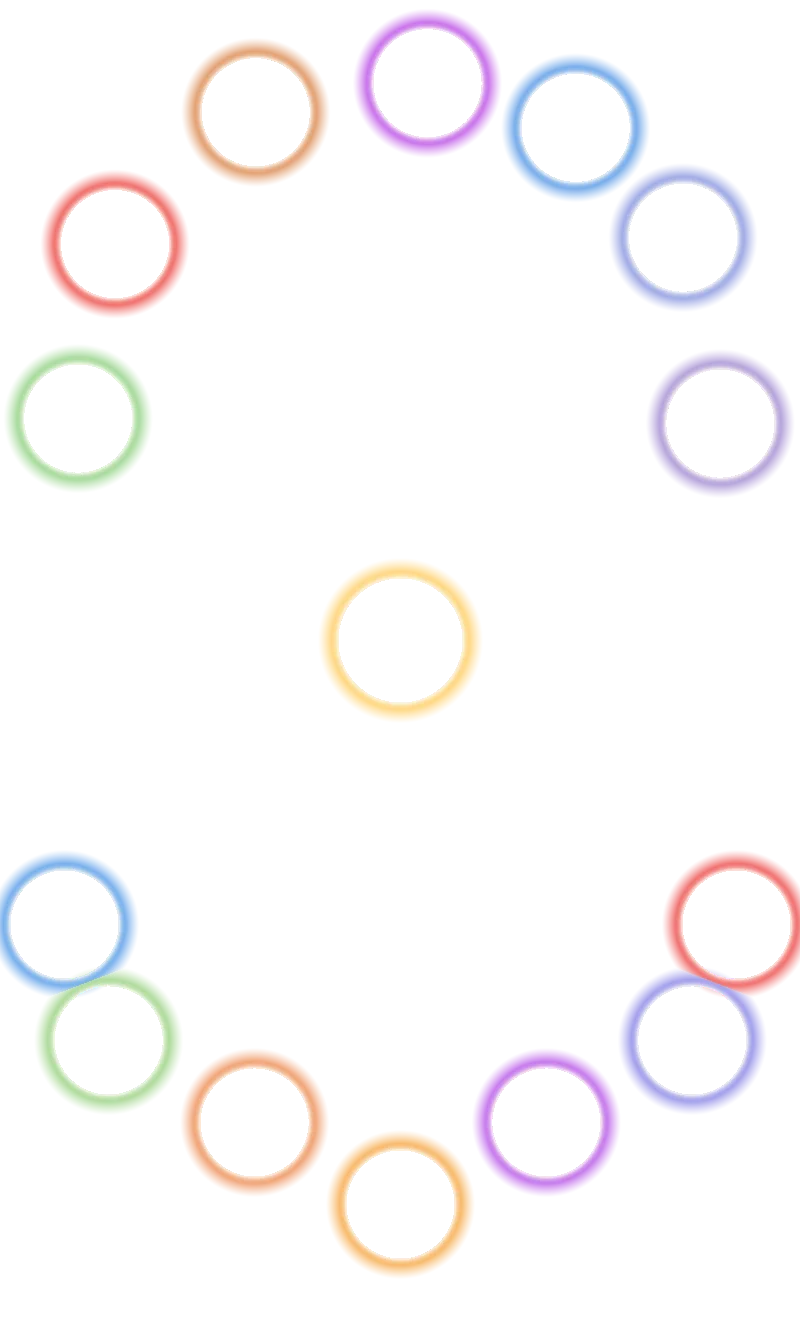
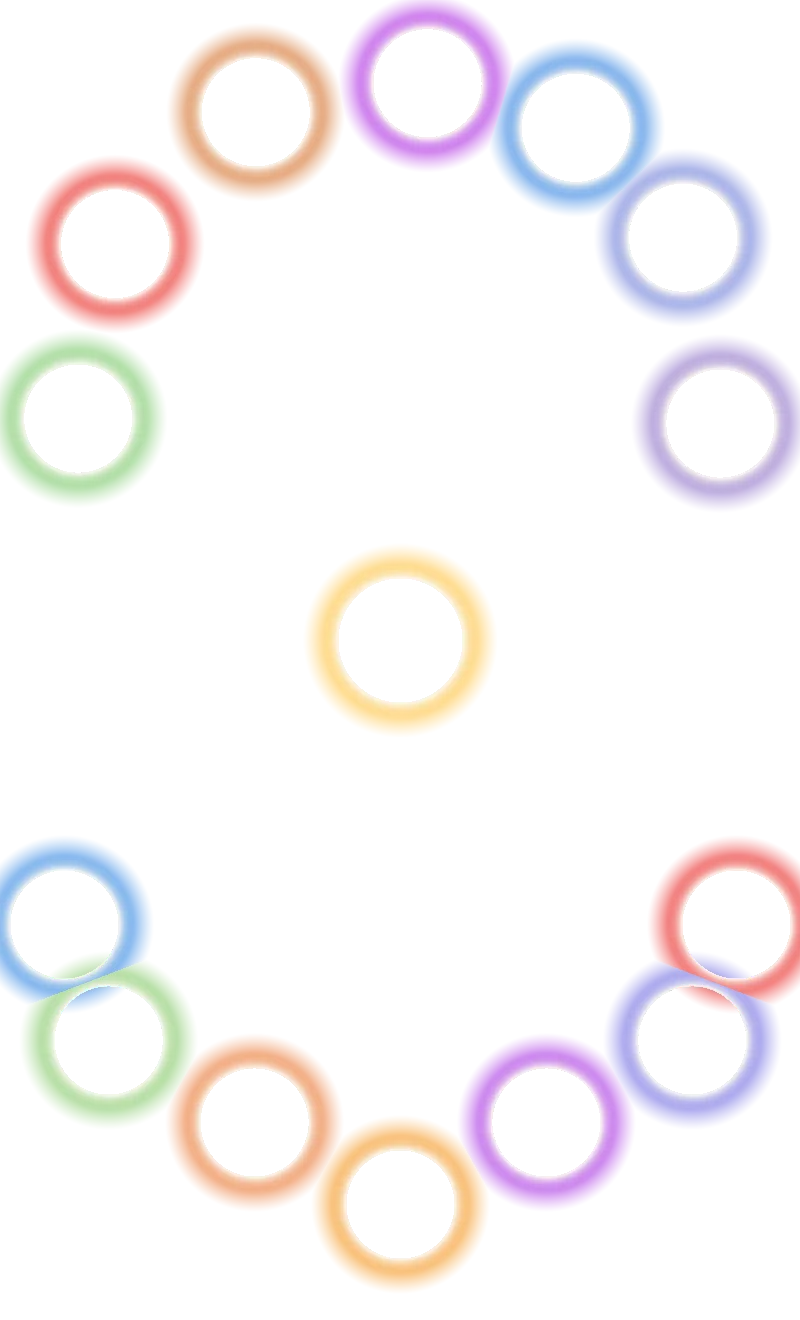
Living Sky refinements: glow C rebake, sumi C brush x4 tree, rAF-driven glow pulse
Founder picks from the 2026-11-17 refinement study (glow C + sumi C,
brush 4x as thick; ship decision 2026-11-17):

- Glow layers rebaked at variant C constants (reach 30px, peak alpha
  255, white mix .95, white zone 0.44 + 0.54*push, white layer 1.0)
  via the production bake path (composite-stack-v6 glow_layer);
  combined halo alpha mass 25.6M -> 50.3M, changes confined to the
  medallion halo bands.
- tree-painted rebaked with the sumi C dry-brush outline treatment
  on a 20 layer-px band grown outward (brush x4): 0 colour pixels
  changed, 0 changes inside the medallion disc zones, all changes
  inside the band+bleed footprint (bake-time post-process, zero
  runtime cost).
- Glow pulse moved off CSS keyframes onto the scene's existing rAF
  loop: iOS drops the CSS animation on pinch-zoom and never restarts
  it (founder report 2026-11-17). Same pulse law — 1.65s period,
  ease-in-out (cubic-bezier(0.42, 0, 0.58, 1)), opacity .10 <-> 1 —
  now set per frame via a ref on the glow-white layer.

Verification: vitest 603/603 passed; tsc -b error set identical to
main's 15 pre-existing errors; bake baseline reproduced the shipped
layers pixel-identically before rebaking.

Changed region(s): [[0.0, 0.6212, 1.0, 0.9939], [0.0, 0.0, 1.0, 0.4038], [0.375, 0.4038, 0.625, 0.5591]]

diff --git a/frontend/src/living-tree/LivingSkyScene.tsx b/frontend/src/living-tree/LivingSkyScene.tsx
@@ -101,6 +101,25 @@ function moonPathD(k: number, r: number): string {
 }
 const MOON_DARK_D = moonPathD(1, 20)
 
+/* CSS ease-in-out = cubic-bezier(0.42, 0, 0.58, 1), solved for the
+ * given x (Newton iterations on the bezier parameter). Used to drive
+ * the glow pulse from the rAF loop with the exact easing the retired
+ * CSS keyframes carried. */
+function easeInOutCubic(x: number): number {
+  const X1 = 0.42
+  const X2 = 0.58
+  let t = x
+  for (let i = 0; i < 5; i++) {
+    const u = 1 - t
+    const cx = 3 * u * u * t * X1 + 3 * u * t * t * X2 + t * t * t
+    const dx = 3 * u * u * X1 + 6 * u * t * (X2 - X1) + 3 * t * t * (1 - X2)
+    if (dx < 1e-6) break
+    t -= (cx - x) / dx
+  }
+  const u = 1 - t
+  return 3 * u * t * t + t * t * t
+}
+
 /* Clock stations: a tick segment starts ON the body's path at an
  * hour point and runs along the path normal; a station is the
  * crossbar centred on that point (study clock redesign). */
@@ -157,6 +176,7 @@ export function LivingSkyScene({
   const moonRingRef = useRef<SVGImageElement | null>(null)
   const sunGRef = useRef<SVGGElement | null>(null)
   const sunDiscRef = useRef<SVGImageElement | null>(null)
+  const glowWhiteRef = useRef<HTMLImageElement | null>(null)
 
   useEffect(() => {
     let clockKey = ''
@@ -348,6 +368,20 @@ export function LivingSkyScene({
       )
     }
 
+    /* The medallion glow pulse — the same law the retired CSS
+     * keyframes carried (1.65 s period, ease-in-out, opacity
+     * .10 ↔ 1), driven from this loop instead: iOS drops CSS
+     * animations on large raster layers when the page is
+     * pinch-zoomed and never restarts them, which killed the glow
+     * permanently (founder report, 2026-11-17). */
+    const paintGlowPulse = (now: Date) => {
+      const el = glowWhiteRef.current
+      if (!el) return
+      const p = (now.getTime() % 1650) / 1650
+      const e = easeInOutCubic(p < 0.5 ? p * 2 : p * 2 - 1)
+      el.style.opacity = (p < 0.5 ? 0.1 + 0.9 * e : 1 - 0.9 * e).toFixed(3)
+    }
+
     const loop = () => {
       raf = requestAnimationFrame(loop)
       if (typeof document !== 'undefined' && document.hidden) {
@@ -356,6 +390,7 @@ export function LivingSkyScene({
       }
       const now = new Date()
       paintRotations(now)
+      paintGlowPulse(now)
       if (now.getSeconds() !== lastSec) {
         lastSec = now.getSeconds()
         update(now)
@@ -364,6 +399,7 @@ export function LivingSkyScene({
     const t0 = new Date()
     update(t0)
     paintRotations(t0)
+    paintGlowPulse(t0)
     raf = requestAnimationFrame(loop)
     return () => cancelAnimationFrame(raf)
   }, [])
@@ -377,8 +413,6 @@ export function LivingSkyScene({
 .lsky svg.lsky-sky{position:absolute;inset:0;width:100%;height:100%;display:block}
 .lsky-paint{position:absolute;inset:0;pointer-events:none;transform-origin:0 0}
 .lsky-paint img{position:absolute;inset:0;width:100%;height:100%}
-.lsky-paint .glowwhite{animation:lsky-glowpulse 1.65s ease-in-out infinite}
-@keyframes lsky-glowpulse{0%,100%{opacity:.10}50%{opacity:1}}
 .lsky svg.lsky-hit{position:absolute;inset:0;width:100%;height:100%;display:block}
 .lsky .lnode{cursor:pointer}
 .lsky .lnode text{fill:#f5f0e8;text-anchor:middle;pointer-events:none}
@@ -578,7 +612,7 @@ export function LivingSkyScene({
       <div className="lsky-paint" style={{ transform: PAINTSTACK_TRANSFORM }}>
         <img src={canopyBackUrl} alt="" />
         <img src={glowColourUrl} alt="" />
-        <img className="glowwhite" src={glowWhiteUrl} alt="" />
+        <img ref={glowWhiteRef} src={glowWhiteUrl} alt="" />
         <img src={treePaintedUrl} alt="" />
         <img src={canopyForeUrl} alt="" />
       </div>
